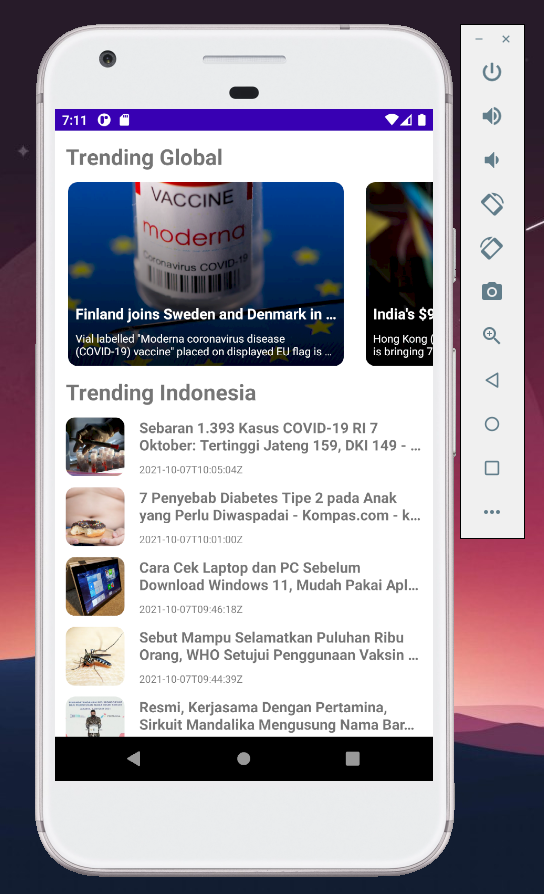
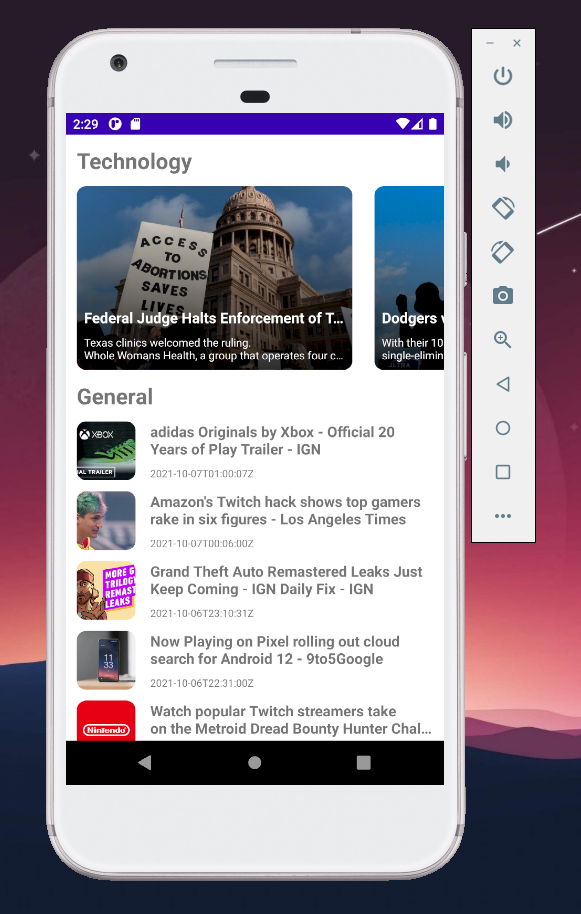
refactoring

diff --git a/app/src/main/java/com/group5/news/MainActivity.kt b/app/src/main/java/com/group5/news/MainActivity.kt
@@ -5,8 +5,8 @@ import androidx.activity.viewModels
 import androidx.appcompat.app.AppCompatActivity
 import androidx.recyclerview.widget.LinearLayoutManager
 import com.google.android.material.snackbar.Snackbar
-import com.group5.news.adapter.GlobalHeadlinesAdapter
-import com.group5.news.adapter.LocalHeadlinesAdapter
+import com.group5.news.adapter.TechnologyHeadlinesAdapter
+import com.group5.news.adapter.GeneralHeadlinesAdapter
 import com.group5.news.databinding.ActivityMainBinding
 import com.group5.news.utlities.StateResult
 import com.group5.news.utlities.makeSnackbar
@@ -20,20 +20,20 @@ class MainActivity : AppCompatActivity() {
         binding = ActivityMainBinding.inflate(layoutInflater)
         setContentView(binding.root)
 
-        setupGlobalHeadlines()
-        setupLocalHeadlines()
+        setupTechnologyHeadlines()
+        setupGeneralHeadlines()
     }
 
-    private fun setupGlobalHeadlines() {
-        mainViewModel.getGlobalHeadlines(5)
-        val globalHeadlinesAdapter = GlobalHeadlinesAdapter()
-        mainViewModel.headlinesGlobal.observe(this, { res ->
+    private fun setupTechnologyHeadlines() {
+        mainViewModel.getTechnologyHeadlines(5)
+        val technologyHeadlinesAdapter = TechnologyHeadlinesAdapter()
+        mainViewModel.headlinesTechnology.observe(this, { res ->
             when (res) {
                 is StateResult.Loading -> {
                 }
                 is StateResult.Success -> {
                     res.data?.let { it ->
-                        globalHeadlinesAdapter.differ.submitList(it.articles)
+                        technologyHeadlinesAdapter.differ.submitList(it.articles)
                     }
                 }
                 is StateResult.Error -> {
@@ -42,22 +42,22 @@ class MainActivity : AppCompatActivity() {
             }
         })
 
-        binding.rvHeadlinesGlobal.apply {
+        binding.rvHeadlinesTechnology.apply {
             layoutManager = LinearLayoutManager(this@MainActivity, LinearLayoutManager.HORIZONTAL, false)
-            adapter = globalHeadlinesAdapter
+            adapter = technologyHeadlinesAdapter
         }
     }
 
-    private fun setupLocalHeadlines() {
-        mainViewModel.getLocalHeadlines(20)
-        val localHeadlinesAdapter = LocalHeadlinesAdapter()
-        mainViewModel.headlinesLocal.observe(this, { res ->
+    private fun setupGeneralHeadlines() {
+        mainViewModel.getGeneralHeadlines(20)
+        val generalHeadlinesAdapter = GeneralHeadlinesAdapter()
+        mainViewModel.headlinesGeneral.observe(this, { res ->
             when (res) {
                 is StateResult.Loading -> {
                 }
                 is StateResult.Success -> {
                     res.data?.let { it ->
-                        localHeadlinesAdapter.differ.submitList(it.articles)
+                        generalHeadlinesAdapter.differ.submitList(it.articles)
                     }
                 }
                 is StateResult.Error -> {
@@ -66,9 +66,9 @@ class MainActivity : AppCompatActivity() {
             }
         })
 
-        binding.rvHeadlinesLocal.apply {
+        binding.rvHeadlinesGeneral.apply {
             layoutManager = LinearLayoutManager(this@MainActivity)
-            adapter = localHeadlinesAdapter
+            adapter = generalHeadlinesAdapter
         }
     }
 }

diff --git a/app/src/main/java/com/group5/news/MainViewModel.kt b/app/src/main/java/com/group5/news/MainViewModel.kt
@@ -9,32 +9,42 @@ import com.group5.news.utlities.StateResult
 import kotlinx.coroutines.launch
 
 class MainViewModel : ViewModel() {
-    val headlinesGlobal: MutableLiveData<StateResult<NewsResponse>> = MutableLiveData()
-    val headlinesLocal: MutableLiveData<StateResult<NewsResponse>> = MutableLiveData()
+    val headlinesTechnology: MutableLiveData<StateResult<NewsResponse>> = MutableLiveData()
+    val headlinesGeneral: MutableLiveData<StateResult<NewsResponse>> = MutableLiveData()
 
-    fun getLocalHeadlines(pageSize: Int) = viewModelScope.launch {
-        headlinesLocal.postValue(StateResult.Loading())
-        val res = Api.news.getHeadlines("id", pageSize)
-        if (res.isSuccessful) {
-            res.body()?.let {
-                headlinesLocal.postValue(StateResult.Success(it))
+    fun getGeneralHeadlines(pageSize: Int) = viewModelScope.launch {
+        headlinesGeneral.postValue(StateResult.Loading())
+        try {
+            val res = Api.news.getHeadlines("general", "us")
+            if (res.isSuccessful) {
+                res.body()?.let {
+                    it.articles = it.articles.take(pageSize)
+                    headlinesGeneral.postValue(StateResult.Success(it))
+                }
+                return@launch
             }
-            return@launch
-        }
 
-        headlinesLocal.postValue(StateResult.Error(res.message() ?: "Error has occurred"))
+            headlinesGeneral.postValue(StateResult.Error(res.message() ?: "Error has occurred"))
+        }catch (e: Exception) {
+            headlinesTechnology.postValue(StateResult.Error(e.message.toString()))
+        }
     }
 
-    fun getGlobalHeadlines(pageSize: Int) = viewModelScope.launch {
-        headlinesGlobal.postValue(StateResult.Loading())
-        val res = Api.news.getHeadlines("us", pageSize)
-        if (res.isSuccessful) {
-            res.body()?.let {
-                headlinesGlobal.postValue(StateResult.Success(it))
+    fun getTechnologyHeadlines(pageSize: Int) = viewModelScope.launch {
+        headlinesTechnology.postValue(StateResult.Loading())
+        try {
+            val res = Api.news.getHeadlines("technology", "us")
+            if (res.isSuccessful) {
+                res.body()?.let {
+                    it.articles = it.articles.take(pageSize)
+                    headlinesTechnology.postValue(StateResult.Success(it))
+                }
+                return@launch
             }
-            return@launch
-        }
 
-        headlinesGlobal.postValue(StateResult.Error(res.message() ?: "Error has occurred"))
+            headlinesTechnology.postValue(StateResult.Error(res.message() ?: "Error has occurred"))
+        } catch (e: Exception) {
+            headlinesTechnology.postValue(StateResult.Error(e.message.toString()))
+        }
     }
 }

diff --git a/app/src/main/java/com/group5/news/adapter/TechnologyHeadlinesAdapter.kt b/app/src/main/java/com/group5/news/adapter/TechnologyHeadlinesAdapter.kt
@@ -7,9 +7,9 @@ import androidx.recyclerview.widget.DiffUtil
 import androidx.recyclerview.widget.RecyclerView
 import com.bumptech.glide.Glide
 import com.group5.news.data.Article
-import com.group5.news.databinding.RvLocalHeadlinesBinding
+import com.group5.news.databinding.RvTechnologyHeadlinesBinding
 
-class LocalHeadlinesAdapter : RecyclerView.Adapter<LocalHeadlinesAdapter.ViewHolder>() {
+class TechnologyHeadlinesAdapter : RecyclerView.Adapter<TechnologyHeadlinesAdapter.ViewHolder>() {
     val differ = AsyncListDiffer(this, object : DiffUtil.ItemCallback<Article>() {
 
         override fun areItemsTheSame(oldItem: Article, newItem: Article): Boolean {
@@ -21,17 +21,17 @@ class LocalHeadlinesAdapter : RecyclerView.Adapter<LocalHeadlinesAdapter.ViewHol
         }
     })
 
-    inner class ViewHolder(val binding: RvLocalHeadlinesBinding) : RecyclerView.ViewHolder(binding.root)
+    inner class ViewHolder(val binding: RvTechnologyHeadlinesBinding) : RecyclerView.ViewHolder(binding.root)
 
     override fun onCreateViewHolder(parent: ViewGroup, viewType: Int): ViewHolder {
-        val binding = RvLocalHeadlinesBinding.inflate(LayoutInflater.from(parent.context), parent, false)
+        val binding = RvTechnologyHeadlinesBinding.inflate(LayoutInflater.from(parent.context), parent, false)
         return ViewHolder(binding)
     }
 
     override fun onBindViewHolder(holder: ViewHolder, position: Int) {
         val article = differ.currentList[position]
         holder.binding.tvTitle.text = article.title
-        holder.binding.tvDate.text = article.publishedAt
+        holder.binding.tvDescription.text = article.content
         Glide.with(holder.itemView).load(article.urlToImage).into(holder.binding.sivPicture)
     }
 

diff --git a/app/src/main/java/com/group5/news/adapter/GeneralHeadlinesAdapter.kt b/app/src/main/java/com/group5/news/adapter/GeneralHeadlinesAdapter.kt
@@ -7,9 +7,9 @@ import androidx.recyclerview.widget.DiffUtil
 import androidx.recyclerview.widget.RecyclerView
 import com.bumptech.glide.Glide
 import com.group5.news.data.Article
-import com.group5.news.databinding.RvGlobalHeadlinesBinding
+import com.group5.news.databinding.RvGeneralHeadlinesBinding
 
-class GlobalHeadlinesAdapter : RecyclerView.Adapter<GlobalHeadlinesAdapter.ViewHolder>() {
+class GeneralHeadlinesAdapter : RecyclerView.Adapter<GeneralHeadlinesAdapter.ViewHolder>() {
     val differ = AsyncListDiffer(this, object : DiffUtil.ItemCallback<Article>() {
 
         override fun areItemsTheSame(oldItem: Article, newItem: Article): Boolean {
@@ -21,17 +21,17 @@ class GlobalHeadlinesAdapter : RecyclerView.Adapter<GlobalHeadlinesAdapter.ViewH
         }
     })
 
-    inner class ViewHolder(val binding: RvGlobalHeadlinesBinding) : RecyclerView.ViewHolder(binding.root)
+    inner class ViewHolder(val binding: RvGeneralHeadlinesBinding) : RecyclerView.ViewHolder(binding.root)
 
     override fun onCreateViewHolder(parent: ViewGroup, viewType: Int): ViewHolder {
-        val binding = RvGlobalHeadlinesBinding.inflate(LayoutInflater.from(parent.context), parent, false)
+        val binding = RvGeneralHeadlinesBinding.inflate(LayoutInflater.from(parent.context), parent, false)
         return ViewHolder(binding)
     }
 
     override fun onBindViewHolder(holder: ViewHolder, position: Int) {
         val article = differ.currentList[position]
         holder.binding.tvTitle.text = article.title
-        holder.binding.tvDescription.text = article.content
+        holder.binding.tvDate.text = article.publishedAt
         Glide.with(holder.itemView).load(article.urlToImage).into(holder.binding.sivPicture)
     }
 

diff --git a/app/src/main/java/com/group5/news/network/Api.kt b/app/src/main/java/com/group5/news/network/Api.kt
@@ -1,30 +1,29 @@
 package com.group5.news.network
 
+import com.group5.news.utlities.Connectivity
 import okhttp3.OkHttpClient
 import okhttp3.logging.HttpLoggingInterceptor
 import retrofit2.Retrofit
 import retrofit2.converter.gson.GsonConverterFactory
+import java.io.IOException
 
-private const val NEWS_API_BASE_URL = "https://newsapi.org"
-private const val NEWS_API_KEY = "09734487ae034b1db7dd8b3df1fd2250"
+private const val NEWS_API_BASE_URL = "https://saurav.tech"
 
 class Api {
 
     companion object {
         private val retrofit by lazy {
-            val logging = HttpLoggingInterceptor().apply {
-                level = HttpLoggingInterceptor.Level.BODY
-            }
-
             val client = OkHttpClient.Builder()
-                .addInterceptor(logging)
                 .addInterceptor {
-                    it.proceed(
-                        it.request().newBuilder().apply {
-                            addHeader("X-Api-Key", NEWS_API_KEY)
-                        }.build()
-                    )
+                    if (!Connectivity.instance.isOnline()) {
+                        throw IOException("No internet connection")
+                    } else {
+                        it.proceed(it.request())
+                    }
                 }
+                .addInterceptor(HttpLoggingInterceptor().apply {
+                    level = HttpLoggingInterceptor.Level.BODY
+                })
                 .build()
 
             Retrofit.Builder()

diff --git a/app/src/main/java/com/group5/news/utlities/Connectivity.kt b/app/src/main/java/com/group5/news/utlities/Connectivity.kt
@@ -1,0 +1,32 @@
+package com.group5.news.utlities
+
+import android.content.Context
+import android.net.ConnectivityManager
+import android.net.NetworkCapabilities
+import android.net.wifi.WifiManager
+
+class Connectivity {
+    private lateinit var wifiManager: WifiManager
+    private lateinit var connectivityManager: ConnectivityManager
+
+    companion object {
+        val instance = Connectivity()
+    }
+
+    fun initializeWithApplicationContext(context: Context) {
+        wifiManager = context.applicationContext.getSystemService(Context.WIFI_SERVICE) as WifiManager
+        connectivityManager = context.getSystemService(Context.CONNECTIVITY_SERVICE) as ConnectivityManager
+    }
+
+    fun isOnline(): Boolean {
+        val capabilities = connectivityManager.getNetworkCapabilities(connectivityManager.activeNetwork)
+        if (capabilities != null) {
+            when {
+                capabilities.hasTransport(NetworkCapabilities.TRANSPORT_CELLULAR) -> return true
+                capabilities.hasTransport(NetworkCapabilities.TRANSPORT_WIFI) -> return true
+                capabilities.hasTransport(NetworkCapabilities.TRANSPORT_ETHERNET) -> return true
+            }
+        }
+        return false
+    }
+}

diff --git a/app/src/main/java/com/group5/news/network/NewsApi.kt b/app/src/main/java/com/group5/news/network/NewsApi.kt
@@ -3,15 +3,16 @@ package com.group5.news.network
 import com.group5.news.data.NewsResponse
 import retrofit2.Response
 import retrofit2.http.GET
+import retrofit2.http.Path
 import retrofit2.http.Query
 
 interface NewsApi {
 
-    @GET("/v2/top-headlines")
+    @GET("/NewsAPI/top-headlines/category/{category}/{country}.json")
     suspend fun getHeadlines(
-        @Query("country")
-        country: String,
-        @Query("pageSize")
-        pageSize: Int = 5
+        @Path("category")
+        pageSize: String,
+        @Path("country")
+        country: String
     ): Response<NewsResponse>
 }

diff --git a/app/src/main/java/com/group5/news/NewsApp.kt b/app/src/main/java/com/group5/news/NewsApp.kt
@@ -1,0 +1,12 @@
+package com.group5.news
+
+import android.app.Application
+import com.group5.news.utlities.Connectivity
+
+class NewsApp : Application() {
+
+    override fun onCreate() {
+        super.onCreate()
+        Connectivity.instance.initializeWithApplicationContext(this)
+    }
+}

diff --git a/app/src/main/java/com/group5/news/data/NewsResponse.kt b/app/src/main/java/com/group5/news/data/NewsResponse.kt
@@ -1,7 +1,7 @@
 package com.group5.news.data
 
 data class NewsResponse(
-    val articles: List<Article>,
+    var articles: List<Article>,
     val status: String,
     val totalResults: Int
 )
